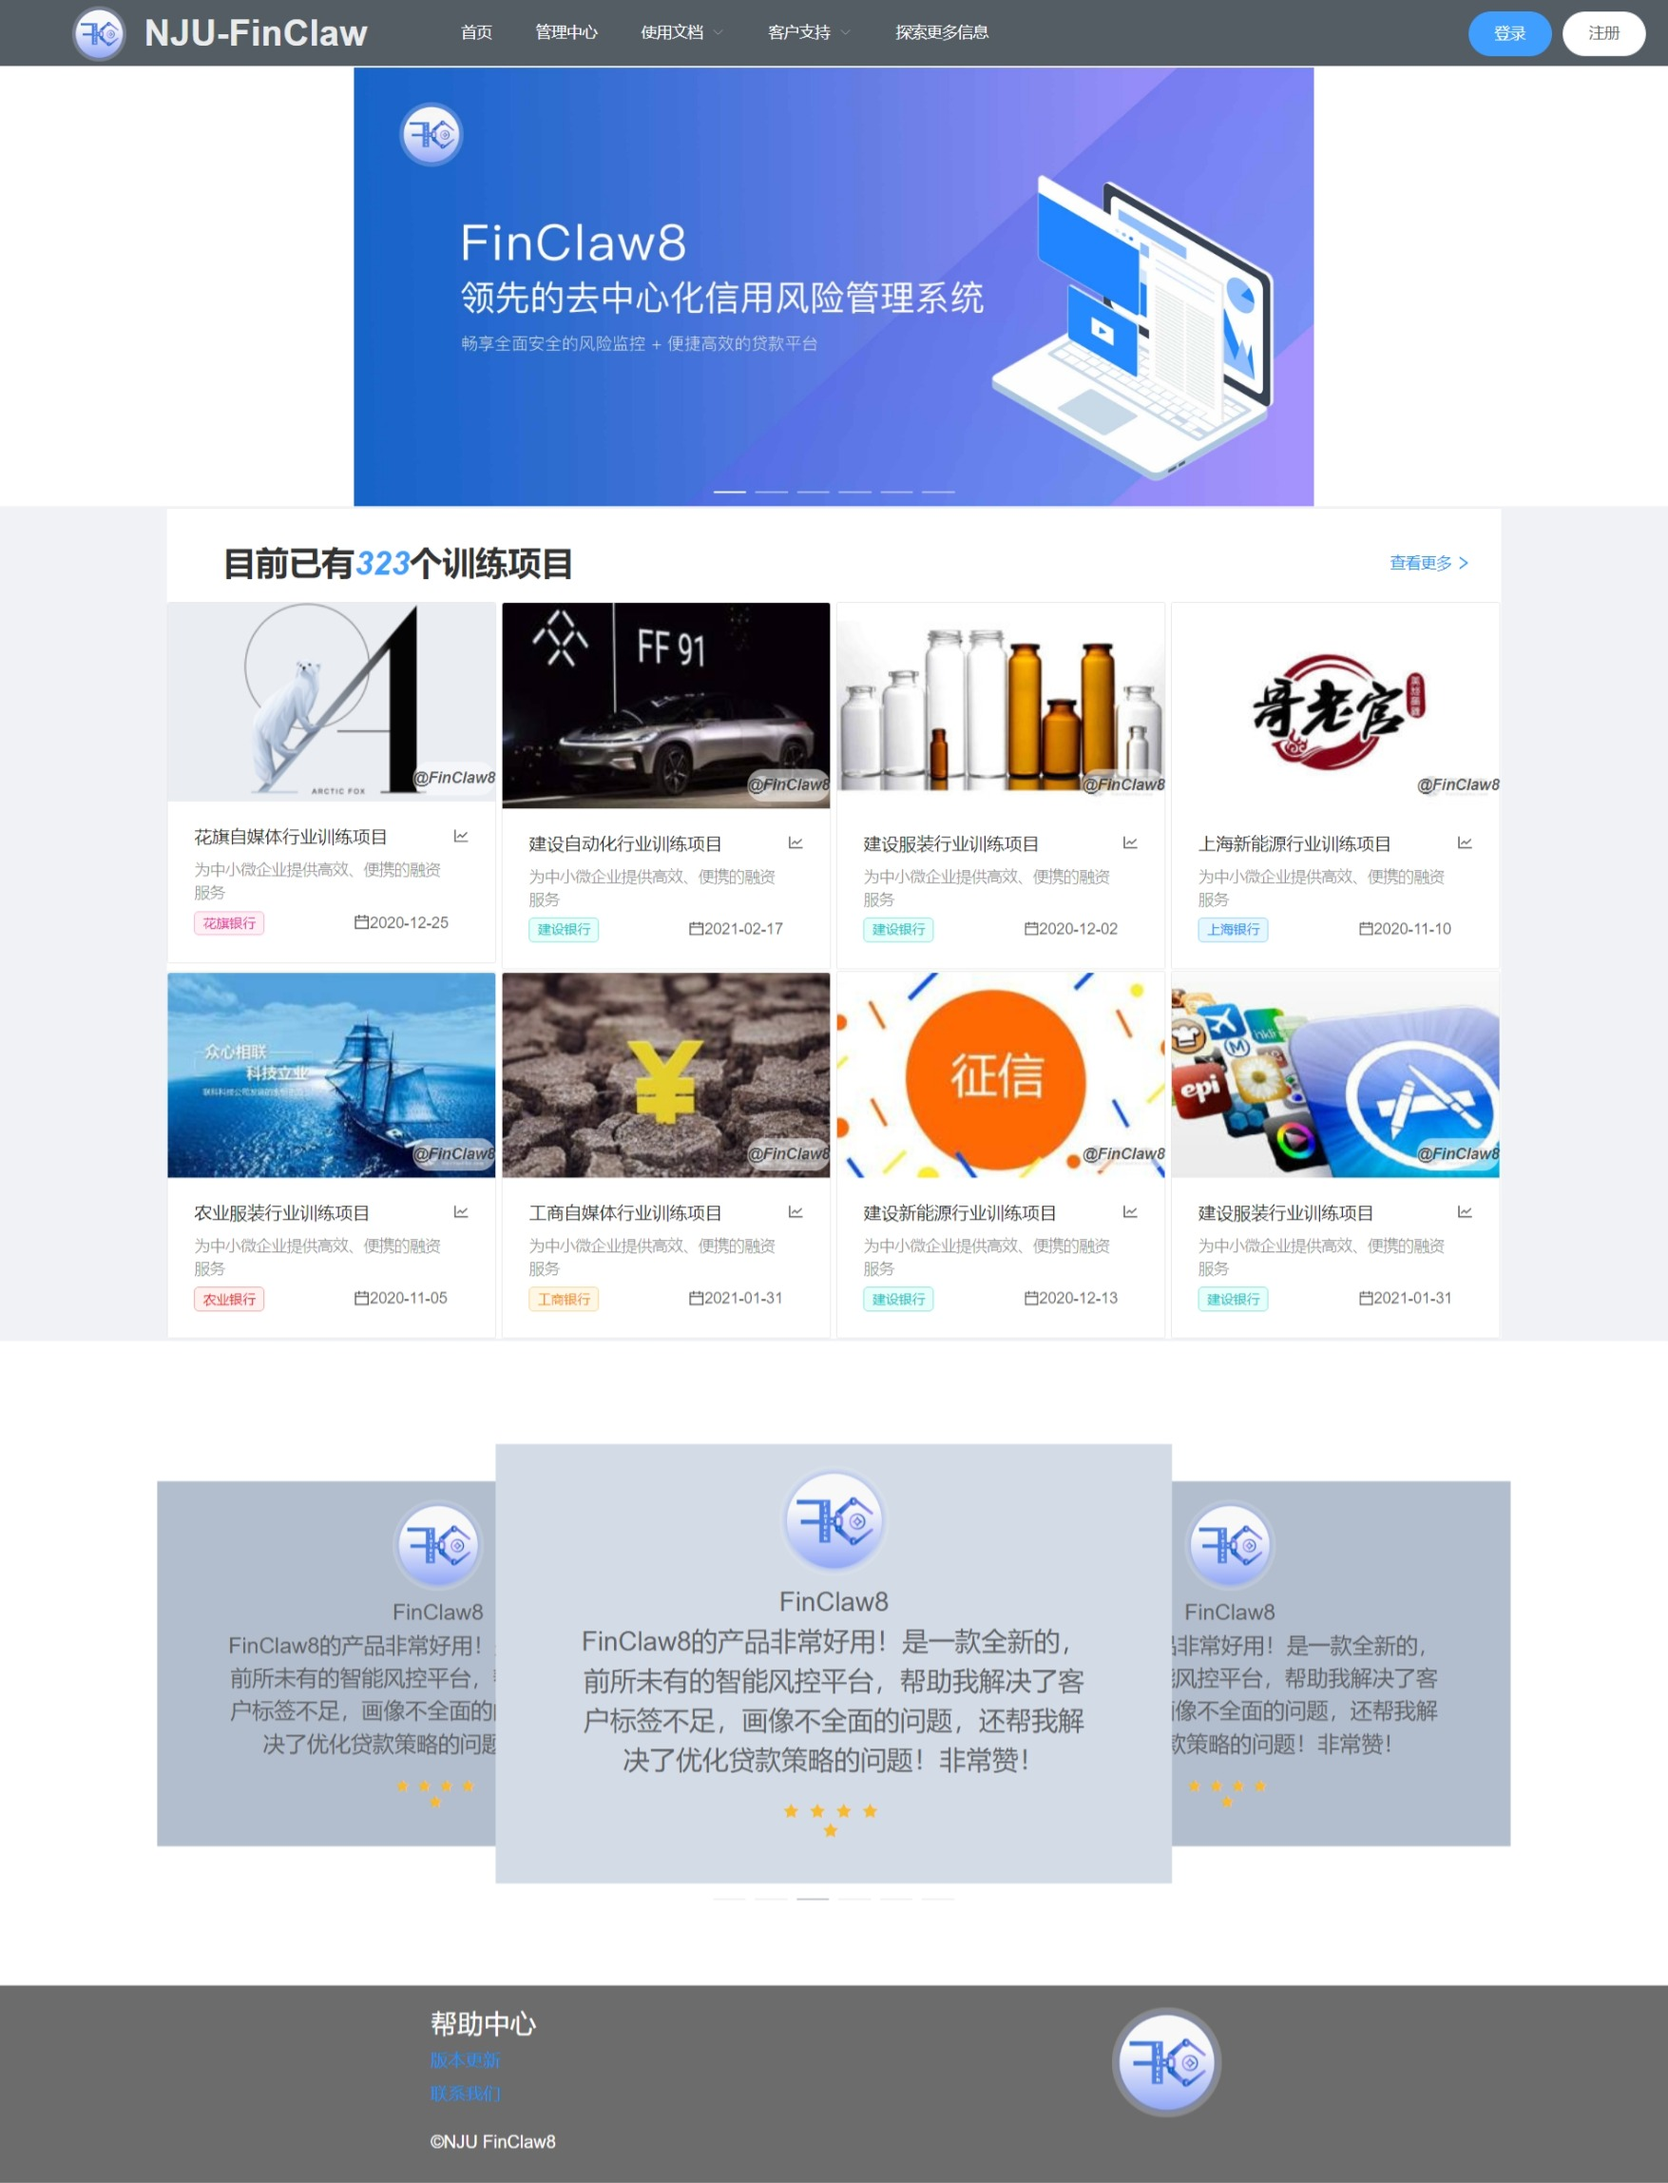
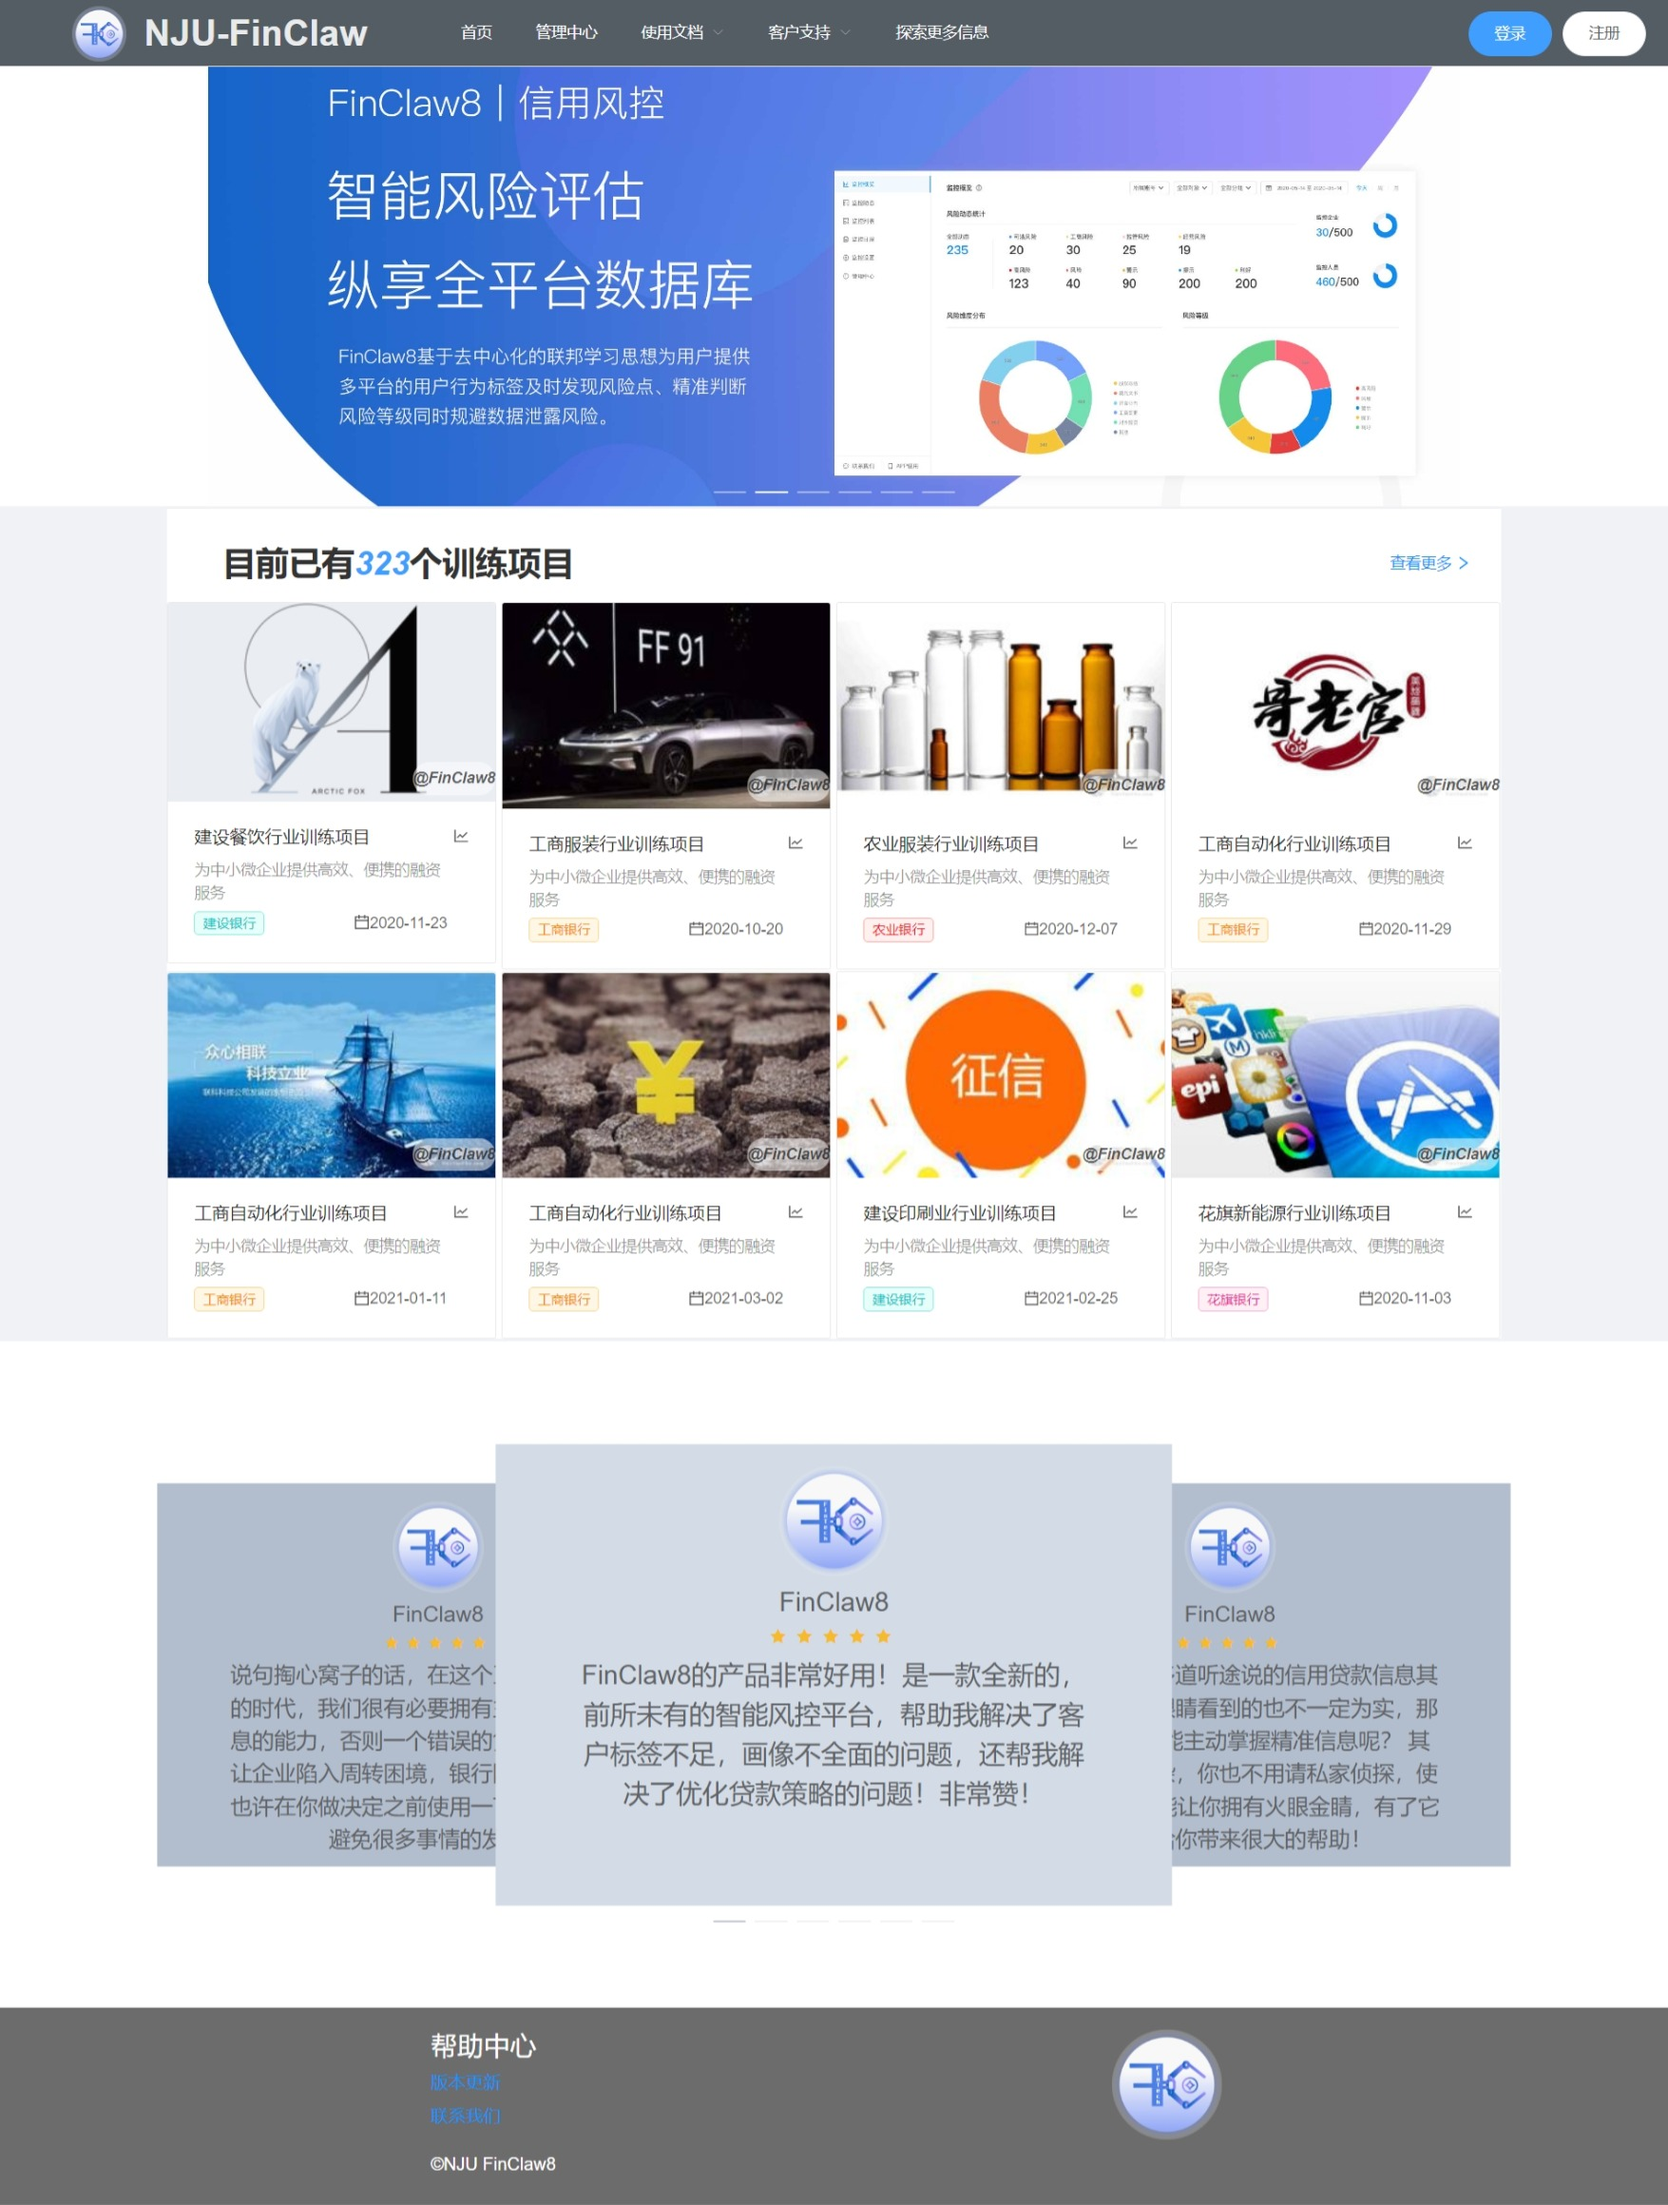
替换首页图片，微调评论卡片

diff --git a/Program/front_end/src/views/home.vue b/Program/front_end/src/views/home.vue
@@ -75,7 +75,7 @@
       <el-main style="height: 100%; margin-bottom: 3%">
         <el-row type="flex" justify="center" style="margin-top: 5%">
           <el-col :span="20">
-            <el-carousel :interval="4000" type="card" height="400px">
+            <el-carousel :interval="4000" type="card" height="420px">
               <el-carousel-item v-for="(content,item) in carousel_content" :key="item" style="border-size:30px">
                 <el-row type="flex" justify="center" style="margin-top: 20px">
                   <el-col :span="5" style="text-align: center">
@@ -91,7 +91,11 @@
                     FinClaw8
                   </el-col>
                 </el-row>
-
+                <el-row type="flex" justify="center" style="margin: 5px 0">
+                  <el-col :span="6" style="text-align: center">
+                    <el-rate value="5" disabled text-color="#ff9900"> </el-rate>
+                  </el-col>
+                </el-row>
                 <el-row type="flex" justify="center">
                   <el-col
                     :span="18"
@@ -103,11 +107,7 @@
                   </el-col>
                 </el-row>
 
-                <el-row type="flex" justify="center" style="margin-top: 20px">
-                  <el-col :span="4" style="text-align: center">
-                    <el-rate value="5" disabled text-color="#ff9900"> </el-rate>
-                  </el-col>
-                </el-row>
+                
               </el-carousel-item>
             </el-carousel>
           </el-col>
